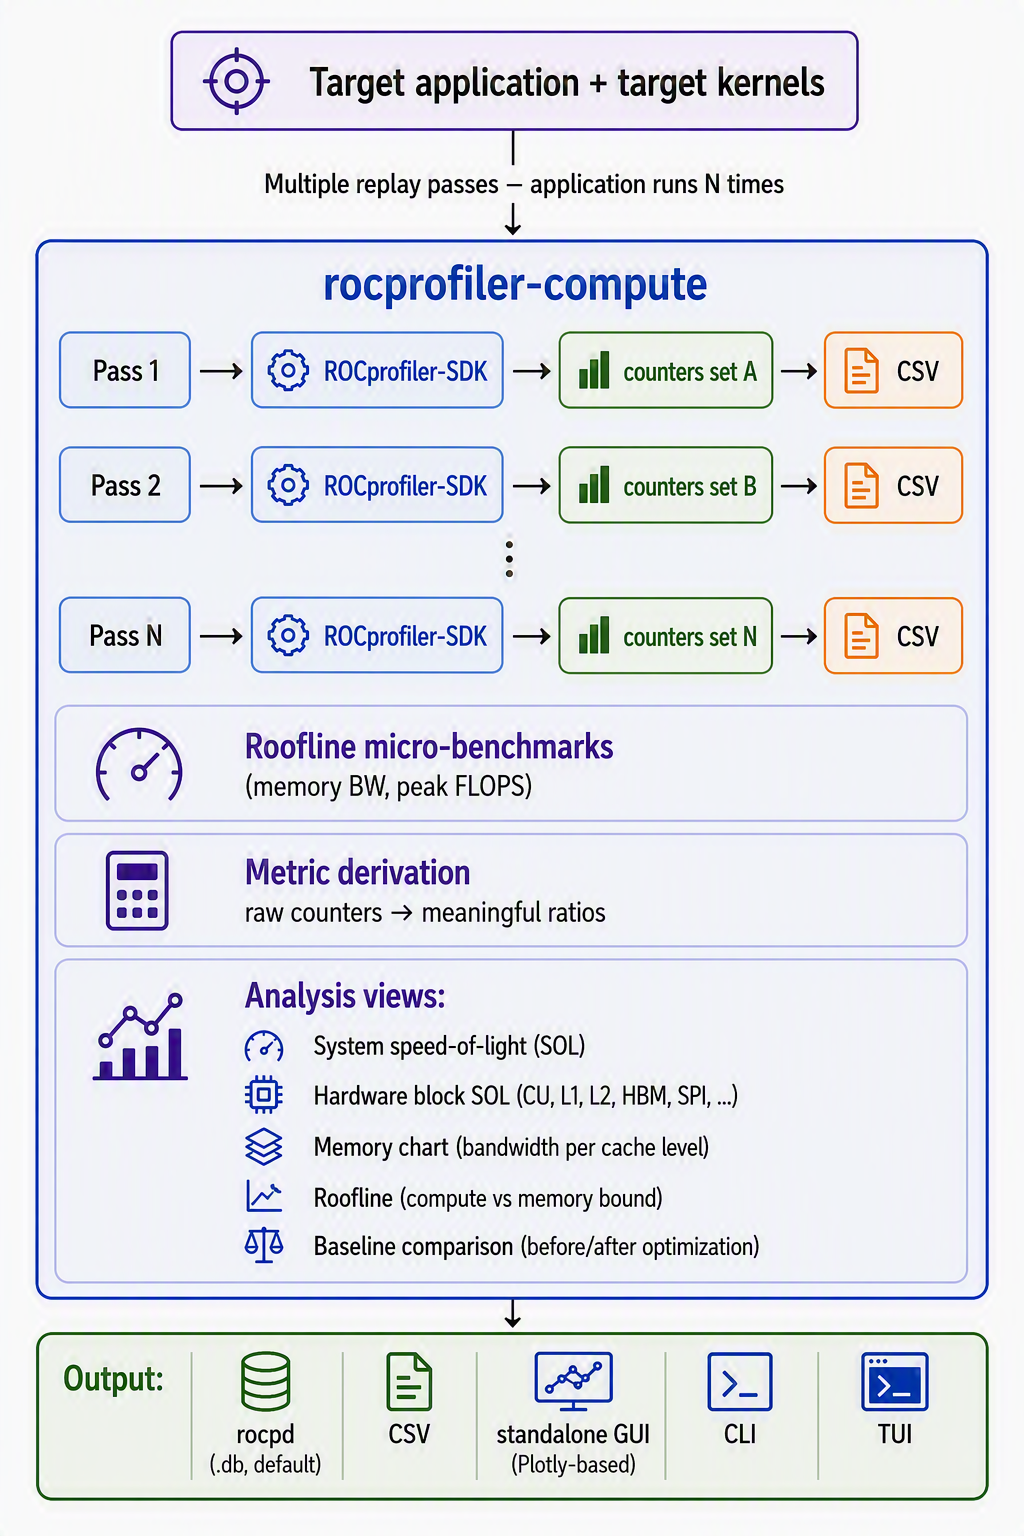
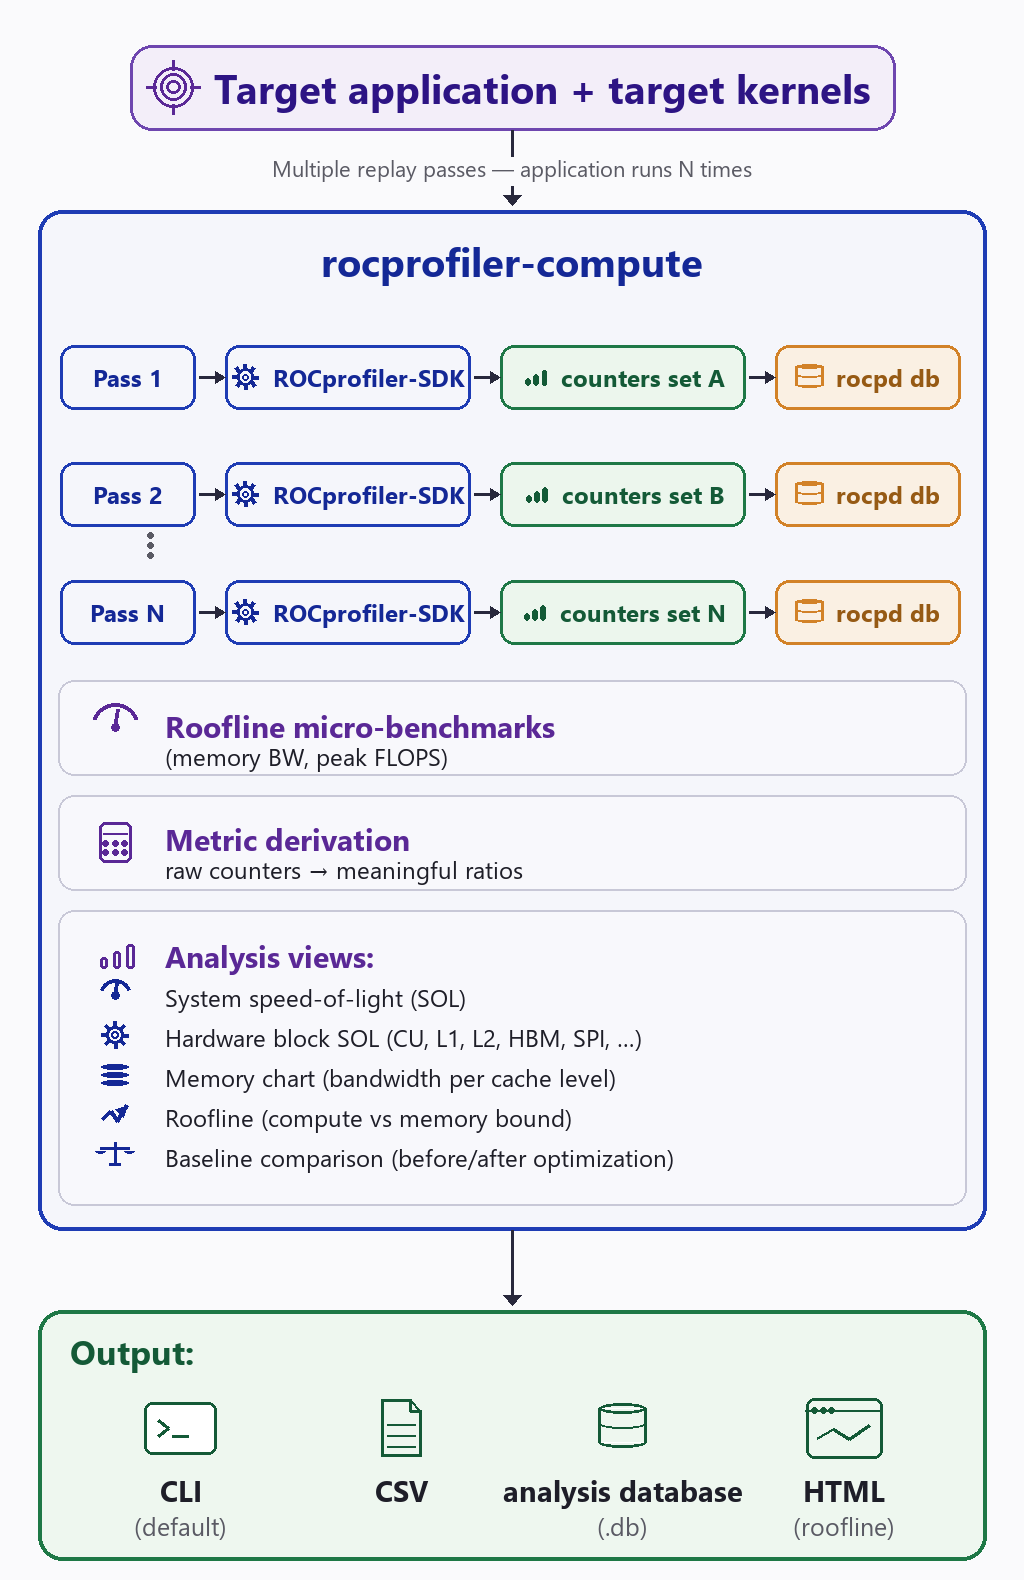
review edits

Changed region(s): [[0.0312, 0.0, 0.9688, 1.0]]

diff --git a/projects/rocprofiler-compute/docs/quick-reference/rocprofiler-compute-at-a-glance.rst b/projects/rocprofiler-compute/docs/quick-reference/rocprofiler-compute-at-a-glance.rst
@@ -47,7 +47,7 @@ The feature set is documented across several how-to and conceptual pages; this t
      - Compares two or more profiled runs of the same SoC side by side to check the effect of a code change.
      - :ref:`analysis-baseline-comparison`
    * - Multiple analysis interfaces
-     - The command line, an experimental standalone GUI, an experimental TUI, and ROCm Optiq all read the same profiling output.
+     - The command line and ROCm Optiq both read the same profiling output.
      - :doc:`../install/quickstart`
    * - Iteration multiplexing
      - Collects a large number of performance counters with minimal profiling overhead by splitting counter collection across kernel iterations instead of full application replays.
@@ -63,7 +63,7 @@ ROCm Compute Profiler is a Python-based tool that profiles an application in up 
 .. image:: /data/how_compute_profiler_works.png
    :width: 60%
    :align: center
-   :alt: Diagram of ROCm Compute Profiler replaying an application across multiple counter-collection passes, running roofline micro-benchmarks, deriving metrics, and producing analysis views consumed by rocpd, CSV, the standalone GUI, the CLI, and the TUI
+   :alt: Diagram of ROCm Compute Profiler replaying an application across multiple counter-collection passes, running roofline micro-benchmarks, deriving metrics, and producing analysis views available as CLI output by default, or as CSV, an analysis database, or an HTML roofline plot
 
 Counter collection is performed by injecting two libraries into the target process alongside :doc:`ROCprofiler-SDK <rocprofiler-sdk:index>`: a native tool (``librocprofiler-compute-tool.so``) that collects hardware performance counters per dispatch, and an SDK tool (``librocprofiler-sdk-tool.so``) that handles kernel tracing and output database generation. See :ref:`core-install-rocprof-var` for the full backend and library breakdown.
 
@@ -134,8 +134,8 @@ ROCm Compute Profiler exposes two primary modes on the ``rocprof-compute`` execu
      - Runs only the roofline micro-benchmarks, skipping standard counter collection.
    * - ``rocprof-compute analyze -p workloads/my_run/MI300X/``
      - Analyzes a profiled run in the terminal.
-   * - ``rocprof-compute analyze -p workloads/my_run/MI300X/ --experimental --gui``
-     - Launches the experimental standalone GUI against a profiled run.
+   * - ``rocprof-compute analyze -p workloads/my_run/MI300X/ --output-format db``
+     - Writes the analysis to a SQLite analysis database instead of printing to the terminal.
    * - ``rocprof-compute analyze -p run_a/MI300X/ run_b/MI300X/``
      - Compares two profiled runs of the same SoC side by side.
 
@@ -170,22 +170,19 @@ This isn't an exhaustive list of flags; run ``rocprof-compute profile -h`` or ``
    * - ``--roof-only``
      - profile
      - Runs only the roofline micro-benchmarks. Can't combine with ``--block``, ``--set``, or ``--bench-only``. See :ref:`standalone-roofline`.
-   * - ``--format-rocprof-output``
-     - profile
-     - Selects the raw counter output format: ``csv`` or ``rocpd`` (default). See :ref:`profiling-output-format`.
    * - ``-p``, ``--path``
      - analyze
      - Points analyze at one or more profiled output directories; repeat or space-separate for :ref:`baseline comparison <analysis-baseline-comparison>`.
-   * - ``--experimental``
+   * - ``--output-format``
      - analyze
-     - Required to enable the standalone GUI (``--gui``) or TUI (``--tui``).
+     - Selects the analysis report format: ``stdout`` (default), ``txt``, ``csv``, or ``db``. See :ref:`glance-output-formats`.
 
 .. _glance-output-formats:
 
 Output formats
 ================
 
-``profile`` and ``analyze`` each accept their own output-format option: ``--format-rocprof-output`` for raw counter data, and ``--output-format`` for the analysis report. The following table lists the available values for each:
+``analyze`` accepts an ``--output-format`` option for the analysis report. The following table lists the available values, plus the HTML roofline plots that ``analyze`` writes automatically, and the ``rocpd`` database that ``profile`` always writes:
 
 .. list-table::
    :header-rows: 1
@@ -194,12 +191,9 @@ Output formats
    * - Format
      - Produced by
      - Description
-   * - ``rocpd`` (default)
+   * - ``rocpd``
      - profile
-     - SQLite database of raw counters per dispatch. Required for ``analyze --output-format csv`` or ``db``. See :ref:`profiling-output-format`.
-   * - ``csv``
-     - profile
-     - Intermediate CSV counter files. Deprecated in favor of ``rocpd``. See :ref:`profiling-output-format`.
+     - SQLite database of raw counters per dispatch, written automatically. Required for ``analyze --output-format csv`` or ``db``.
    * - ``stdout`` (default)
      - analyze
      - Analysis results printed to the terminal only.
@@ -208,10 +202,13 @@ Output formats
      - Analysis results written to a ``rocprof_compute_<uuid>.txt`` file.
    * - ``csv``
      - analyze
-     - Analysis results written to a folder of CSV files. Requires the workload was profiled with ``--format-rocprof-output rocpd``.
+     - Analysis results written to a folder of CSV files. Requires the workload's ``rocpd`` database from profiling.
    * - ``db``
      - analyze
-     - Analysis results written to a ``rocprof_compute_<uuid>.db`` SQLite file. Same ``rocpd`` requirement as ``csv``.
+     - Analysis results written to a ``rocprof_compute_<uuid>.db`` SQLite analysis database. Same requirement as ``csv``.
+   * - ``html``
+     - analyze
+     - Standalone Plotly roofline plot(s) (``empirRoof_gpu-<id>...html``), written automatically whenever the workload includes roofline data, independent of ``--output-format``. See :ref:`standalone-roofline`.
 
 Select the analyze output format with ``--output-format`` and override the file name with ``--output-name``. See :ref:`analysis-output-format` for details.
 
@@ -246,14 +243,10 @@ Roofline micro-benchmark support varies by :ref:`SoC family <def-soc>` independe
      - ✅
      - ❌
      - Roofline micro-benchmarks require MI200 or later. See :ref:`standalone-roofline`.
-   * - AMD Ryzen™ AI Max / Ryzen AI Max+ 300 and 400 Series (Strix/Halo, Gorgon/Halo; gfx1150/gfx1151/gfx1152)
+   * - AMD Ryzen™ AI Max / Ryzen AI Max+ 300 and 400 Series and Ryzen AI 5/7 PRO 4xx Series (Strix/Halo, Gorgon/Halo; gfx1150/gfx1151/gfx1152/gfx1153)
      - ✅
      - ✅
      - Full feature support; roofline benchmarking for gfx1150 and gfx1152 was added in ROCm Compute Profiler 3.7.0, with the gfx1151 (Strix Halo) gap closed in 3.8.0. Uses Wave Matrix Multiply Accumulate (WMMA) in place of MFMA.
-   * - AMD Ryzen AI 5/7 PRO 4xx Series (gfx1153)
-     - ✅
-     - ❌
-     - GPU metrics support added in ROCm Compute Profiler 3.8.0; roofline benchmarking isn't yet available.
    * - AMD Instinct MI50, MI60 (Vega 20)
      - ❌
      - ❌
